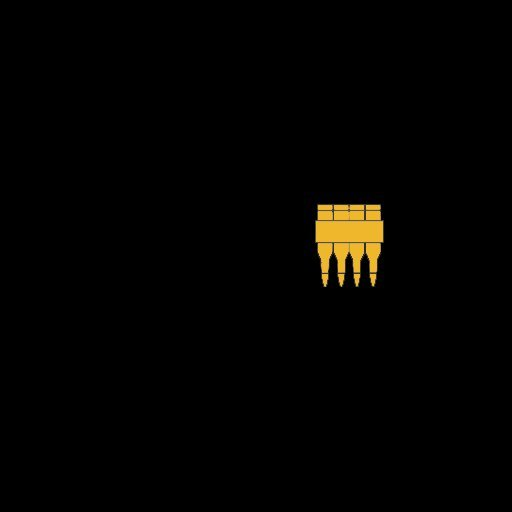
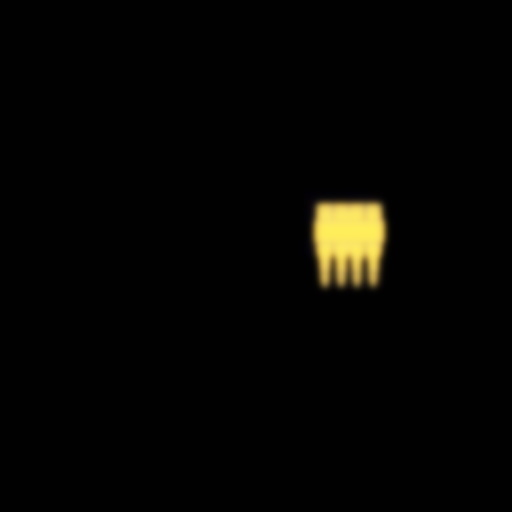
Added blurs to emissive channels.

Changed region(s): [[0.5938, 0.375, 0.7812, 0.5625]]

diff --git a/app/src/world.js b/app/src/world.js
@@ -10,6 +10,7 @@ const cube = Resources.get('meshes/cube.mesh');
 const typeMap = new Map();
 typeMap.set(1, 'mat_world_tiles');
 typeMap.set(2, 'mat_world_concrete');
+typeMap.set(3, 'mat_world_concrete_spot');
 typeMap.set(128, 'meshes/health.mesh');
 typeMap.set(129, 'meshes/armor.mesh');
 typeMap.set(130, 'meshes/ammo.mesh');
@@ -108,7 +109,11 @@ const test = () => {
                 continue;
             }
             for (let k = 1; k <= 3; k++) {
-                mapData[to1D(i, k, j)] = 2;
+                if (k === 1) {
+                    mapData[to1D(i, k, j)] = 3;
+                } else {
+                    mapData[to1D(i, k, j)] = 2;
+                }
             }
         }
     }

diff --git a/app/src/renderer.js b/app/src/renderer.js
@@ -28,8 +28,8 @@ const doLightingPass = () => {
     Shaders.directionalLight.setInt('normalBuffer', 1);
     Shaders.directionalLight.setInt('colorBuffer', 2);
     Shaders.directionalLight.setVec3('directionalLight.direction', [-3.0, 3.0, -5.0]);
-    Shaders.directionalLight.setVec3('directionalLight.diffuse', [0.7, 0.7, 0.7]);
-    Shaders.directionalLight.setVec3('directionalLight.ambient', [0.5, 0.5, 0.5]);
+    Shaders.directionalLight.setVec3('directionalLight.diffuse', [0.6, 0.6, 0.6]);
+    Shaders.directionalLight.setVec3('directionalLight.ambient', [0.4, 0.4, 0.4]);
 
     quad.renderSingle();
 
